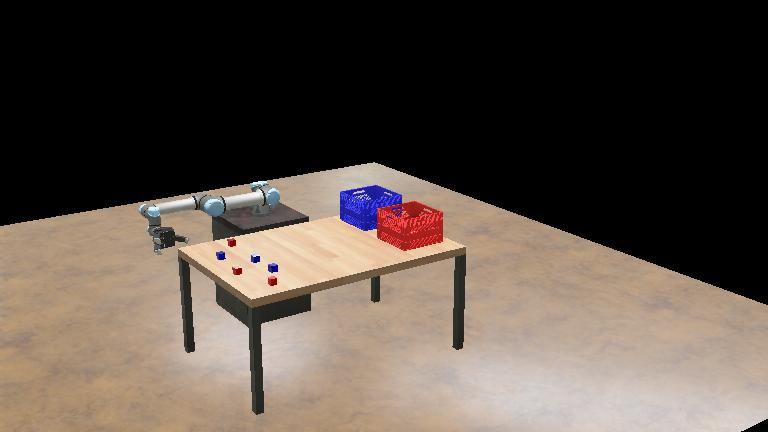
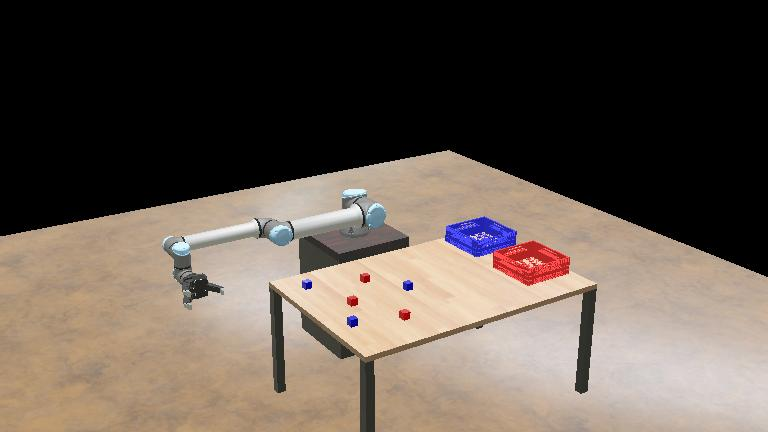
feature: update supervisor controller and utils for UR10e integration and IK solver enhancements
**IK SOLVED FOR UR5**

diff --git a/controllers/supervisor_controller/supervisor_controller.py b/controllers/supervisor_controller/supervisor_controller.py
@@ -1,33 +1,94 @@
 import sys
 import os
-# import numpy as np
+import numpy as np
 from controller import Supervisor
 
 current_dir = os.path.dirname(os.path.abspath(__file__))
 project_root = os.path.abspath(os.path.join(current_dir, "../../"))
 if project_root not in sys.path: sys.path.append(project_root)
 
-# from ik_solver import IK_Solver
+from utils import IK_Solver
 
 supervisor = Supervisor()
 timestep = int(supervisor.getBasicTimeStep())
 
-camera = supervisor.getDevice('camera')
-camera.enable(timestep)
+# --- SETUP MOTORS & SENSORS ---
+motor_names = [
+    'shoulder_pan_joint', 'shoulder_lift_joint', 'elbow_joint',
+    'wrist_1_joint', 'wrist_2_joint', 'wrist_3_joint'
+]
+motors = []
+sensors = []
 
-# solver = IK_Solver("path/to/urdf")
+for name in motor_names:
+    motor = supervisor.getDevice(name)
+    if motor:
+        motors.append(motor)
+        
+        # Webots requires you to explicitly turn on the position sensors!
+        sensor = motor.getPositionSensor()
+        sensor.enable(timestep)
+        sensors.append(sensor)
+    else:
+        print(f"Warning: Could not find motor '{name}'")
+
+# Initialize solver
+solver = IK_Solver(gripper_length=0.16)
 
 # temporary hardcoded target to test IK solver - will replace with camera-based target acquisition later
-target_block = supervisor.getFromDef('BLUE_CUBE_1')
+target_block = supervisor.getFromDef('BLUE_BIN')
+
+# Constants for frame alignment (UR10e vs Webots world)
+OFFSET_ANGLE = np.pi 
+ROTATION_MATRIX = np.array([
+    [np.cos(OFFSET_ANGLE), -np.sin(OFFSET_ANGLE), 0],
+    [np.sin(OFFSET_ANGLE),  np.cos(OFFSET_ANGLE), 0],
+    [0,                     0,                    1]
+])
 
 # --- MAIN LOOP ---
+step_count = 0
+has_printed = False
+
 while supervisor.step(timestep) != -1:
-    t = supervisor.getTime()
+    step_count += 1
+    
+    # 1. Let the sensors "warm up" for 5 physics steps
+    if step_count < 5:
+        continue
 
-    # robot_pos = np.array(supervisor.getSelf().getPosition())
-    # target_pos_world = np.array(target_block.getPosition())
-    # target_pos_local = target_pos_world - robot_pos
+    # 2. Get World Positions
+    robot_node = supervisor.getSelf()
+    robot_pos_world = np.array(robot_node.getPosition())
+    robot_rot_world = np.array(robot_node.getOrientation()).reshape(3, 3) 
+    
+    target_pos_world = np.array(target_block.getPosition())
 
-    # ee_pos = solver.get_link_pos(target_pos_local.tolist())
-    # print(ee_pos)
-    break
+    # 3. Apply Pre-Grasp Hover (Lift target 10cm above the block)
+    target_pos_world[2] += 0.2
+
+    # 4. Convert World -> Local Robot Frame
+    target_vector_world = target_pos_world - robot_pos_world
+    target_pos_local = robot_rot_world.T.dot(target_vector_world)
+
+    # 5. Apply Webots-to-UR Frame Alignment Fix
+    ik_target_local = ROTATION_MATRIX.dot(target_pos_local)
+
+    # 6. Read Sensors & Solve IK
+    current_joints = [sensor.getValue() for sensor in sensors]
+    joint_angles = solver.get_link_pos(ik_target_local.tolist(), current_joints)
+
+    # 7. Actuate Motors or Handle Failure
+    if joint_angles is not None and len(motors) == 6:
+        for i in range(6):
+            motors[i].setPosition(joint_angles[i])
+            
+        # Print success only once to keep the terminal clean
+        if not has_printed:
+            print("IK Solved! Smoothly tracking target in real-time...")
+            has_printed = True
+    else:
+        # Gracefully handle unreachable targets
+        distance = np.linalg.norm(target_vector_world)
+        print(f"Failed. Block is {distance:.2f} meters away (UR10e max reach is 1.30m).")
+        break

diff --git a/utils.py b/utils.py
@@ -1,7 +1,8 @@
 import os
 import sys
 import numpy as np
-from ur_analytic_ik import ur5e
+import xml.etree.cElementTree as ET
+from ur_analytic_ik import ur10e
 
 def get_project_root() -> str:
     root = os.path.dirname(os.path.abspath(__file__))
@@ -12,11 +13,42 @@ def get_project_root() -> str:
 CAMERA_FRAME_PATH = os.path.join(get_project_root(), 'tmp', 'camera_frame.bin')
 
 class IK_Solver:
-    def __init__(self, urdf_path: str) -> None:
-        print("Initializing IK_Solver with URDF path:", urdf_path)
-        pass
+    def __init__(self, gripper_length: float = 0.16) -> None:
+        """
+        gripper_length: The estimated distance in meters from the wrist to the fingertips.
+        Tune this number up or down in Webots if the robot grabs too high or too low!
+        """
+        # Create a 4x4 matrix for the Tool Center Point offset
+        self.tcp_transform = np.eye(4)
 
+        # Shift the math forward along the Z-axis by the length of the gripper
+        self.tcp_transform[2, 3] = gripper_length
 
-    def get_link_pos(self, target_pos: list[float]) -> list[float]:
-        
-        pass
+    def get_link_pos(self, target_pos: list[float], current_joints: list[float]) -> list[float]:
+        """
+        Takes a 3D target position [x, y, z] and returns 6 joint angles.
+        """
+        # Setup the target position matrix
+        target_pose = np.eye(4)
+        target_pose[:3, 3] = target_pos
+
+        # Setup Top-Down Orientation
+        target_pose[:3, :3] = np.array([
+            [-1.0,  0.0,  0.0],
+            [ 0.0,  1.0,  0.0],
+            [ 0.0,  0.0, -1.0]
+        ])
+
+        # Solve using the closest joint configuration AND the gripper length offset
+        solution = ur10e.inverse_kinematics_closest_with_tcp(
+            target_pose,
+            self.tcp_transform,
+            *current_joints # Unpacks the 6 current angles into the function
+        )
+
+        # Return the single best solution
+        if solution is not None and len(solution) > 0:
+            return np.array(solution).flatten().tolist()
+        else:
+            print("Target is physically out of reach!")
+            return None
